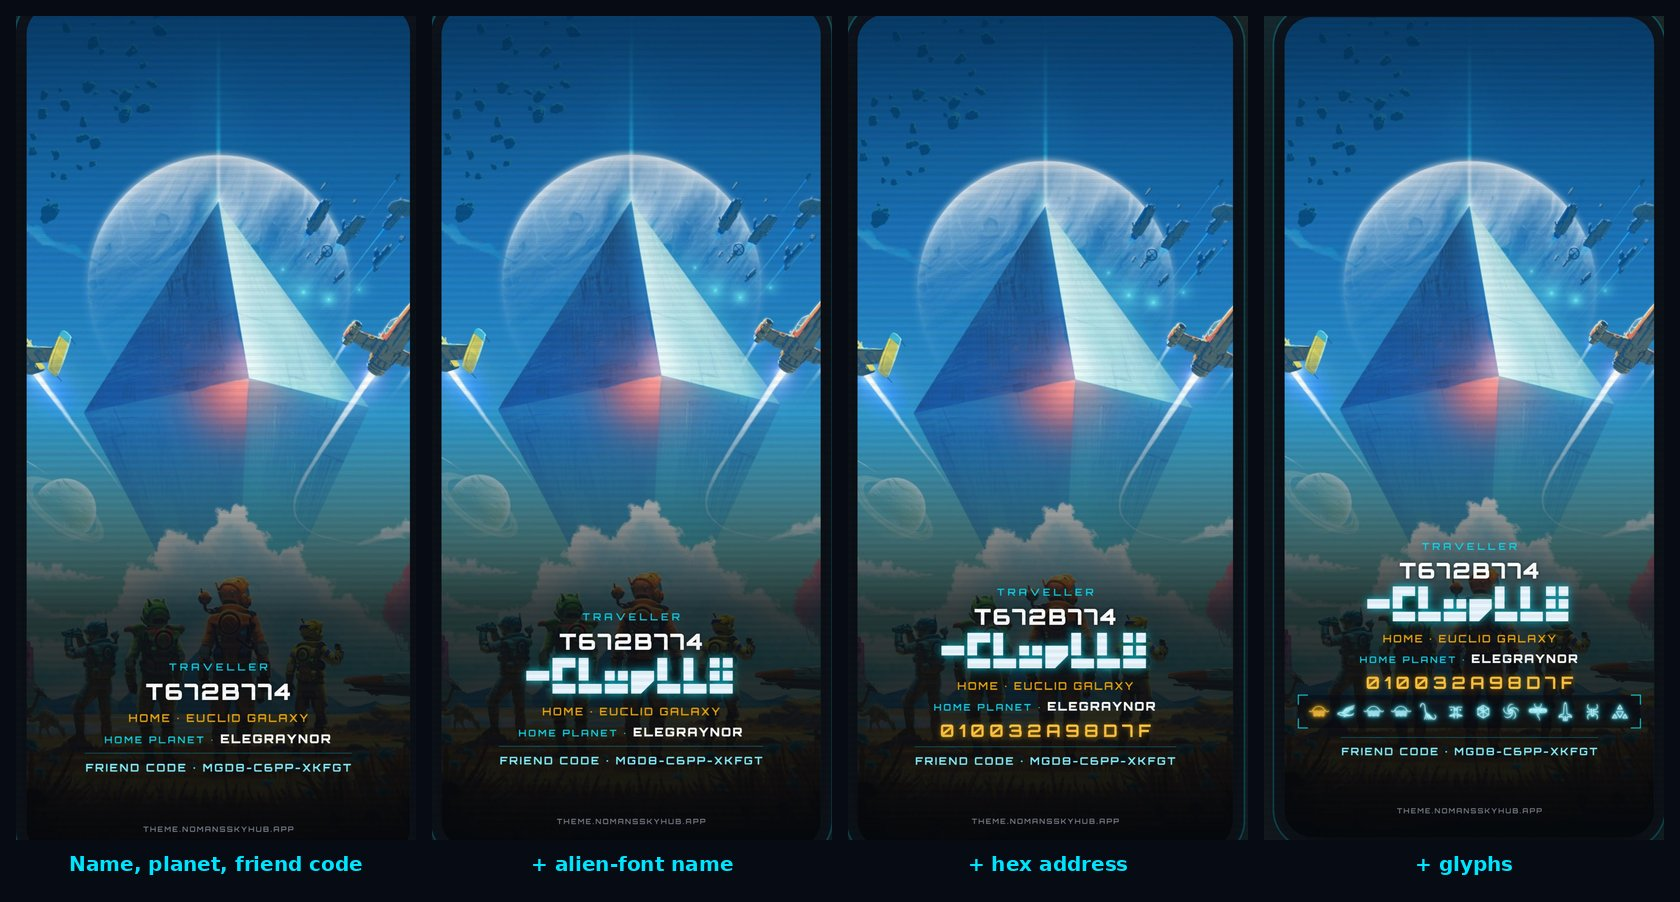
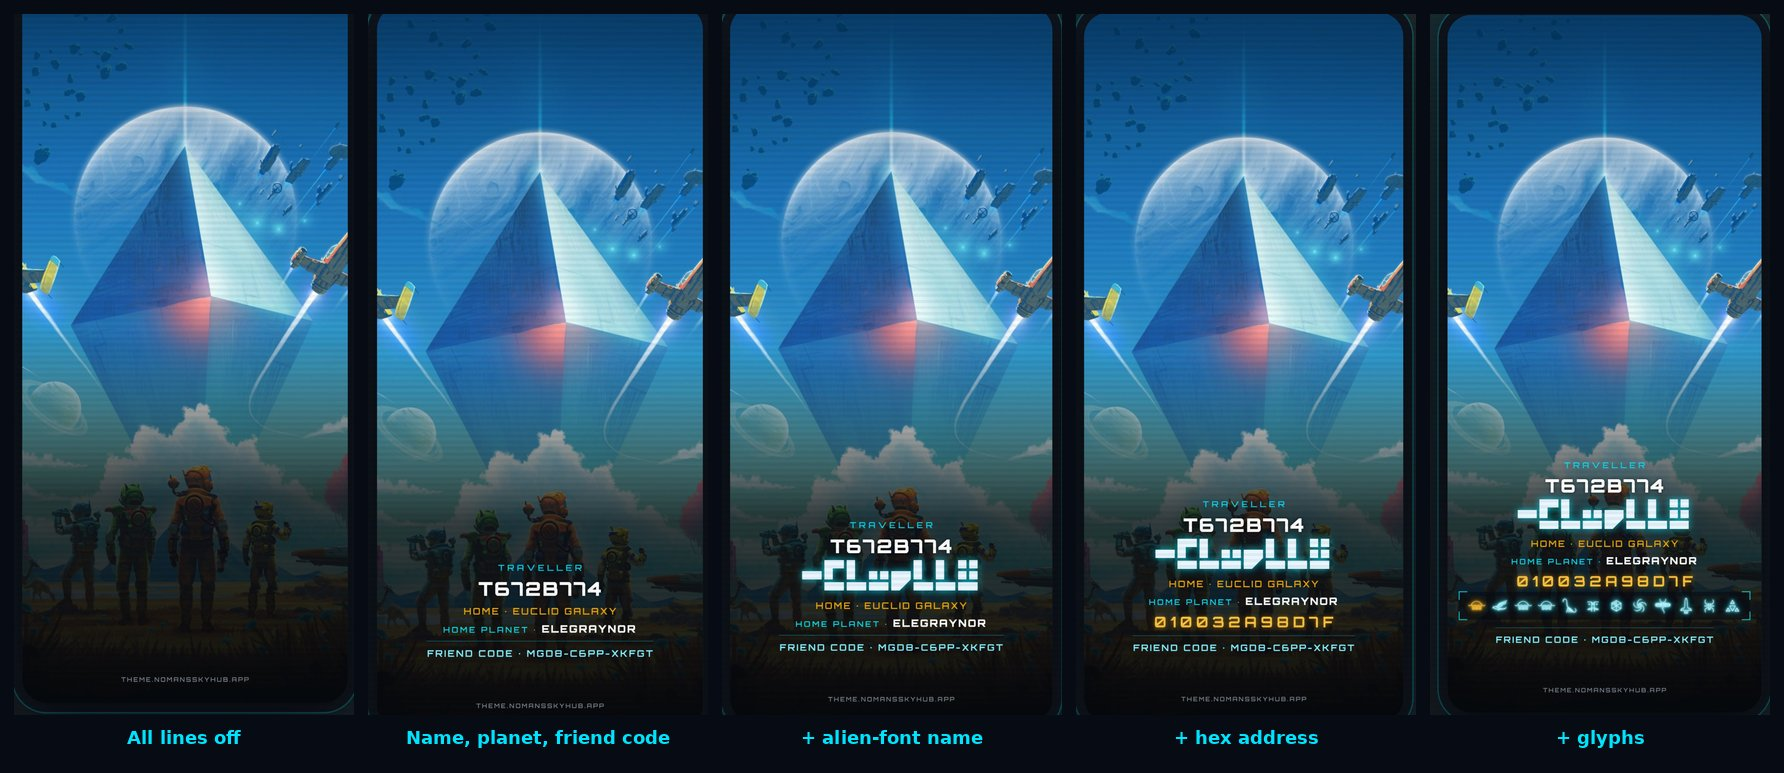
README: add the clean (all lines off) wallpaper to the options screenshot
Claude-Session: https://claude.ai/code/session_016tE1ZzqfRi6m7TVhyWekUJ

diff --git a/README.md b/README.md
@@ -25,7 +25,7 @@ Part of the [No Man's Sky Hub](https://nomansskyhub.app) family of fan tools.
 
 Everything is drawn in your browser; nothing is uploaded. The only thing sent anywhere is your portal address, to look up the planet name.
 
-![Portal wallpaper options: name, planet and friend code, then adding the alien-font name, the hex address and the glyphs](screenshots/07-wallpaper-options.jpg)
+![Portal wallpaper options: all lines off, then name, planet and friend code, then adding the alien-font name, the hex address and the glyphs](screenshots/07-wallpaper-options.jpg)
 
 ![Portal wallpaper, planet of the day and the expedition countdown](screenshots/05-make-it-yours.jpg)
 
